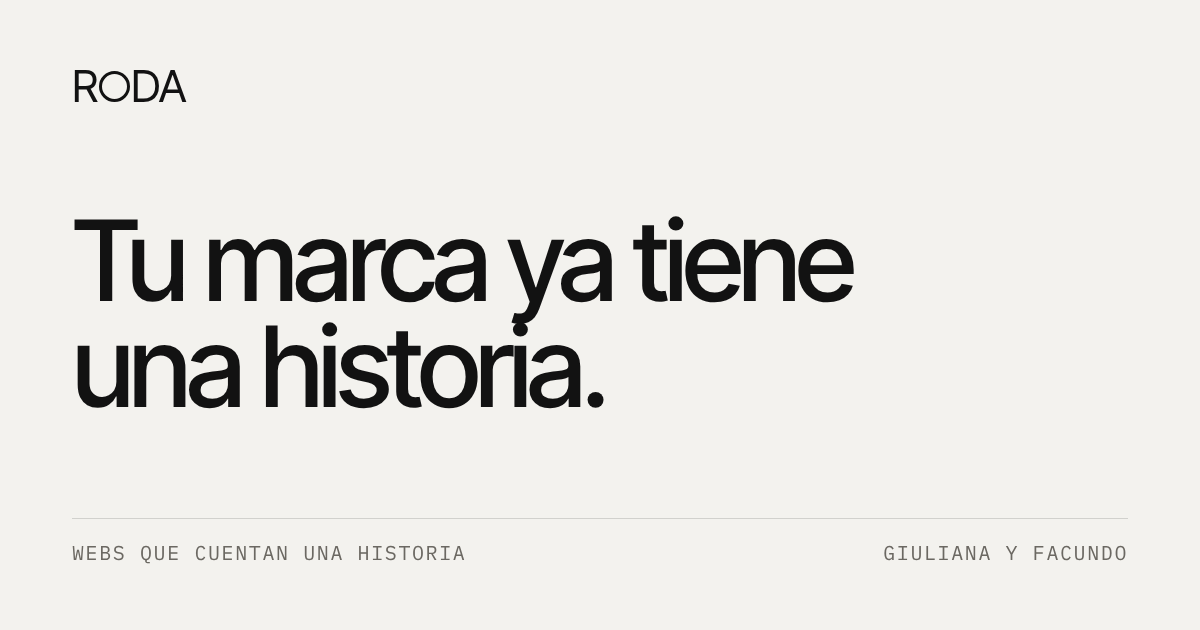
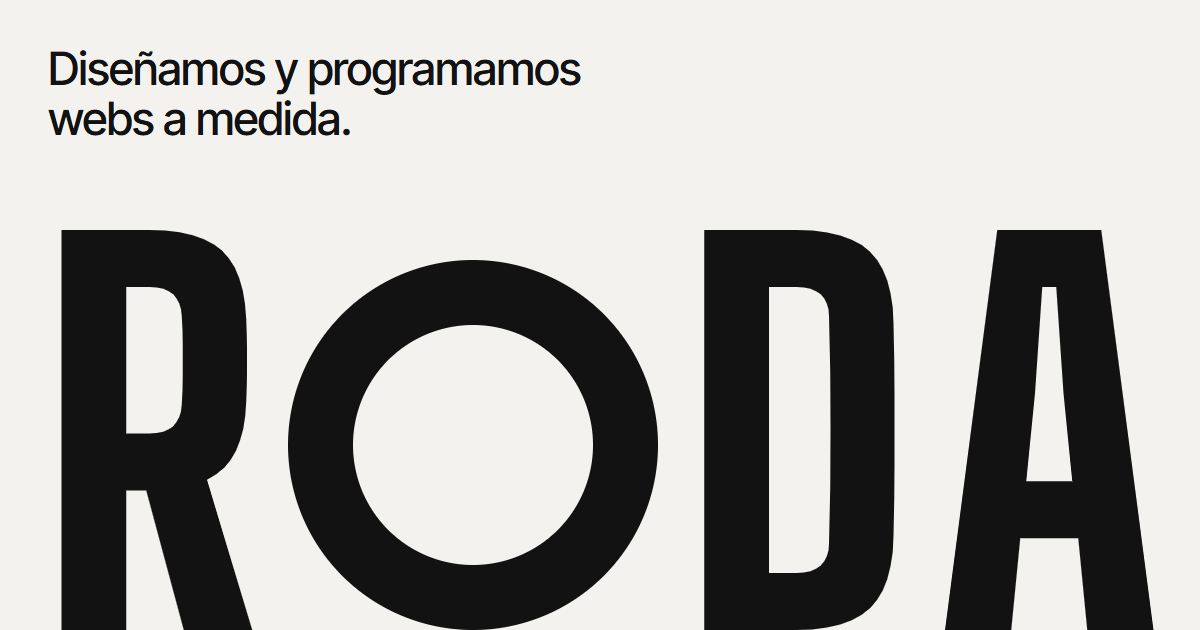
Arreglos de la auditoría: imagen al compartir, avisos del formulario, hero en tablet y testimonios
- og.png con el hero nuevo en lugar de "Tu marca ya tiene una historia"
- Formulario: cada dato que falta avisa al lado del campo y la página lleva hasta ahí
- Hero: si la ficha y el botón no entran en una línea, el botón pasa abajo de la frase (en cualquier ancho e idioma)
- Testimonios: sin imágenes repetidas a la vista ni la cita repetida en "Escribí tu marca"

diff --git a/src/content/guion.en.ts b/src/content/guion.en.ts
@@ -288,6 +288,7 @@ export const contactoPagina: typeof ES.contactoPagina = {
     sistema: { titulo: 'To send you a quote, let’s talk for 30 minutes.', texto: 'Pick a time that suits you and we’ll get a clear picture of what you need.' },
   },
   falta: 'Tell us what you’re looking for, your name and how to reach you.',
+  faltan: { tipo: 'Choose one option.', nombre: 'Your name is missing.', contacto: 'We need a way to reach you.' },
   enviarMail: 'Send',
   enviando: 'Sending…',
   avisoMail: 'It reaches us right away. We’ll reply on WhatsApp or by email, whichever you prefer.',

diff --git a/src/content/guion.pt.ts b/src/content/guion.pt.ts
@@ -288,6 +288,7 @@ export const contactoPagina: typeof ES.contactoPagina = {
     sistema: { titulo: 'Para mandar um orçamento, vamos conversar 30 minutos.', texto: 'Escolha o horário que for melhor para você e entendemos bem o que você precisa.' },
   },
   falta: 'Conte o que você procura, seu nome e como te responder.',
+  faltan: { tipo: 'Escolha uma opção.', nombre: 'Falta seu nome.', contacto: 'Falta como te responder.' },
   enviarMail: 'Enviar',
   enviando: 'Enviando…',
   avisoMail: 'Chega na hora pra gente. Respondemos por WhatsApp ou e-mail, como você preferir.',

diff --git a/src/content/guion.ts b/src/content/guion.ts
@@ -319,6 +319,7 @@ export const contactoPagina = {
     sistema: { titulo: 'Para pasarte un presupuesto, charlemos 30 minutos.', texto: 'Elegí el horario que te quede cómodo y entendemos bien lo que necesitás.' },
   },
   falta: 'Contanos qué buscás, tu nombre y cómo responderte.',
+  faltan: { tipo: 'Elegí una opción.', nombre: 'Falta tu nombre.', contacto: 'Falta cómo responderte.' },
   enviarMail: 'Enviar',
   enviando: 'Enviando…',
   avisoMail: 'Nos llega al toque. Te respondemos por WhatsApp o mail, como prefieras.',

diff --git a/docs/rediseno-progreso.md b/docs/rediseno-progreso.md
@@ -96,3 +96,11 @@ Falta:
 - Testimonios: sin webs repetidas pegadas. Sin sombras en reposo en afiches. Caso vertical con menos hueco.
 - Verificado: check 0 errores, 42 tests, build ok, 390 y 1440 sin errores ni scroll horizontal, movimiento reducido con todo visible, detector de impeccable 0.
 - Pendiente: bajar la cantidad de tamaños de letra (hoy ~20 por página); confirmar la frase del cierre; qué incluye Obra.
+
+## Arreglos de la auditoría 2026-11-01
+
+- Imagen al compartir (`public/og.png`, `scripts/og.mjs`): el hero nuevo en lugar de "Tu marca ya tiene una historia". Los que ya la tienen guardada (WhatsApp, Facebook) pueden tardar en ver la nueva.
+- Formulario: cada dato que falta avisa al lado del campo y la página lleva hasta ahí; el aviso se va al completarlo. Faltan datos: `faltan` en los tres guiones.
+- Hero: cuando la ficha y el botón no entran en una línea (depende del ancho y del idioma), el botón pasa abajo de la frase. Lo mide el script.
+- Testimonios: sin imágenes repetidas a la vista (son 9 lugares y 8 webs: los costados usan otra pantalla de la web). Sin la cita repetida en "Escribí tu marca".
+- Pendiente de decisión: reemplazar "Escribí tu marca" por "Probá una" (webs reales en iframe, prototipo aparte; al pasarlo hay que sumar frame-src en `public/_headers`).
